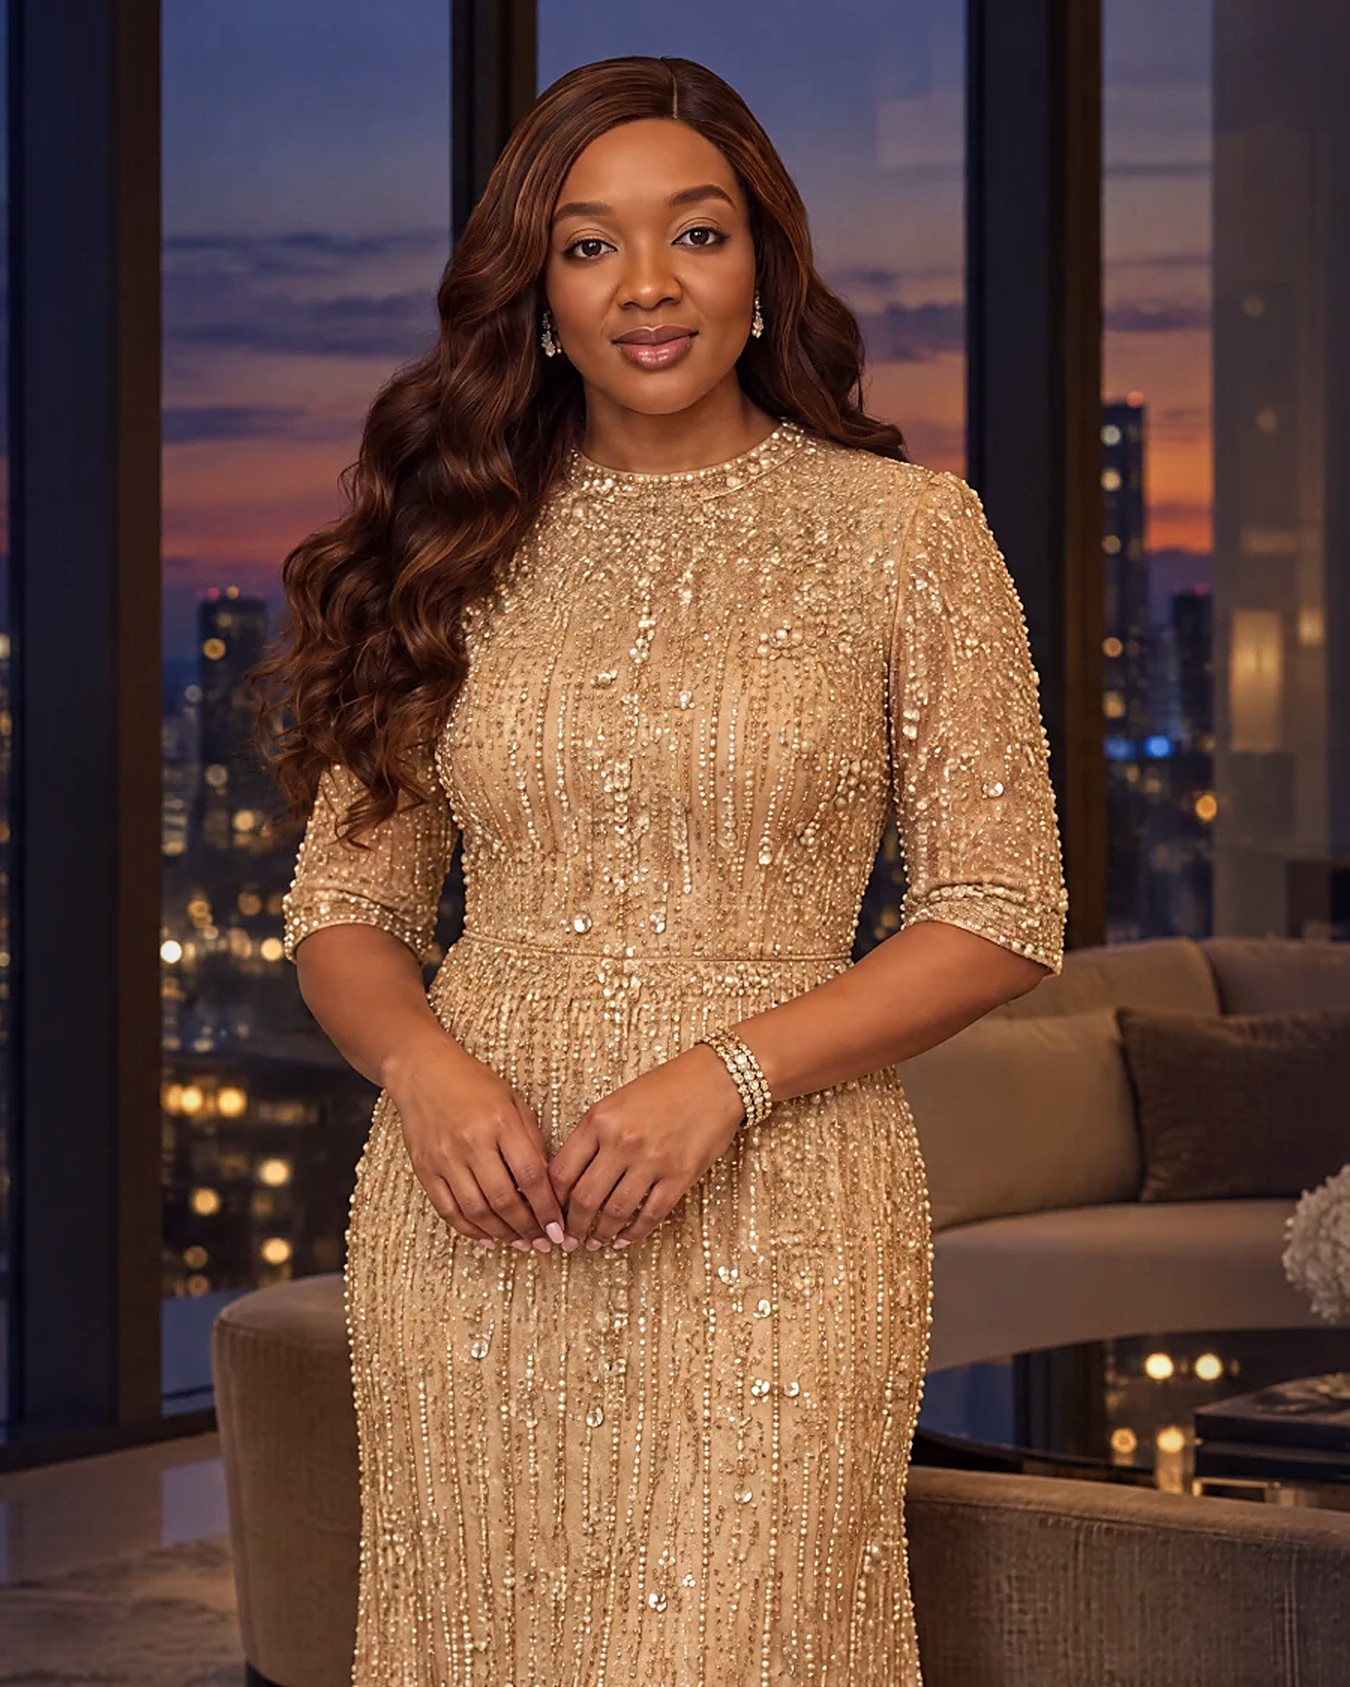
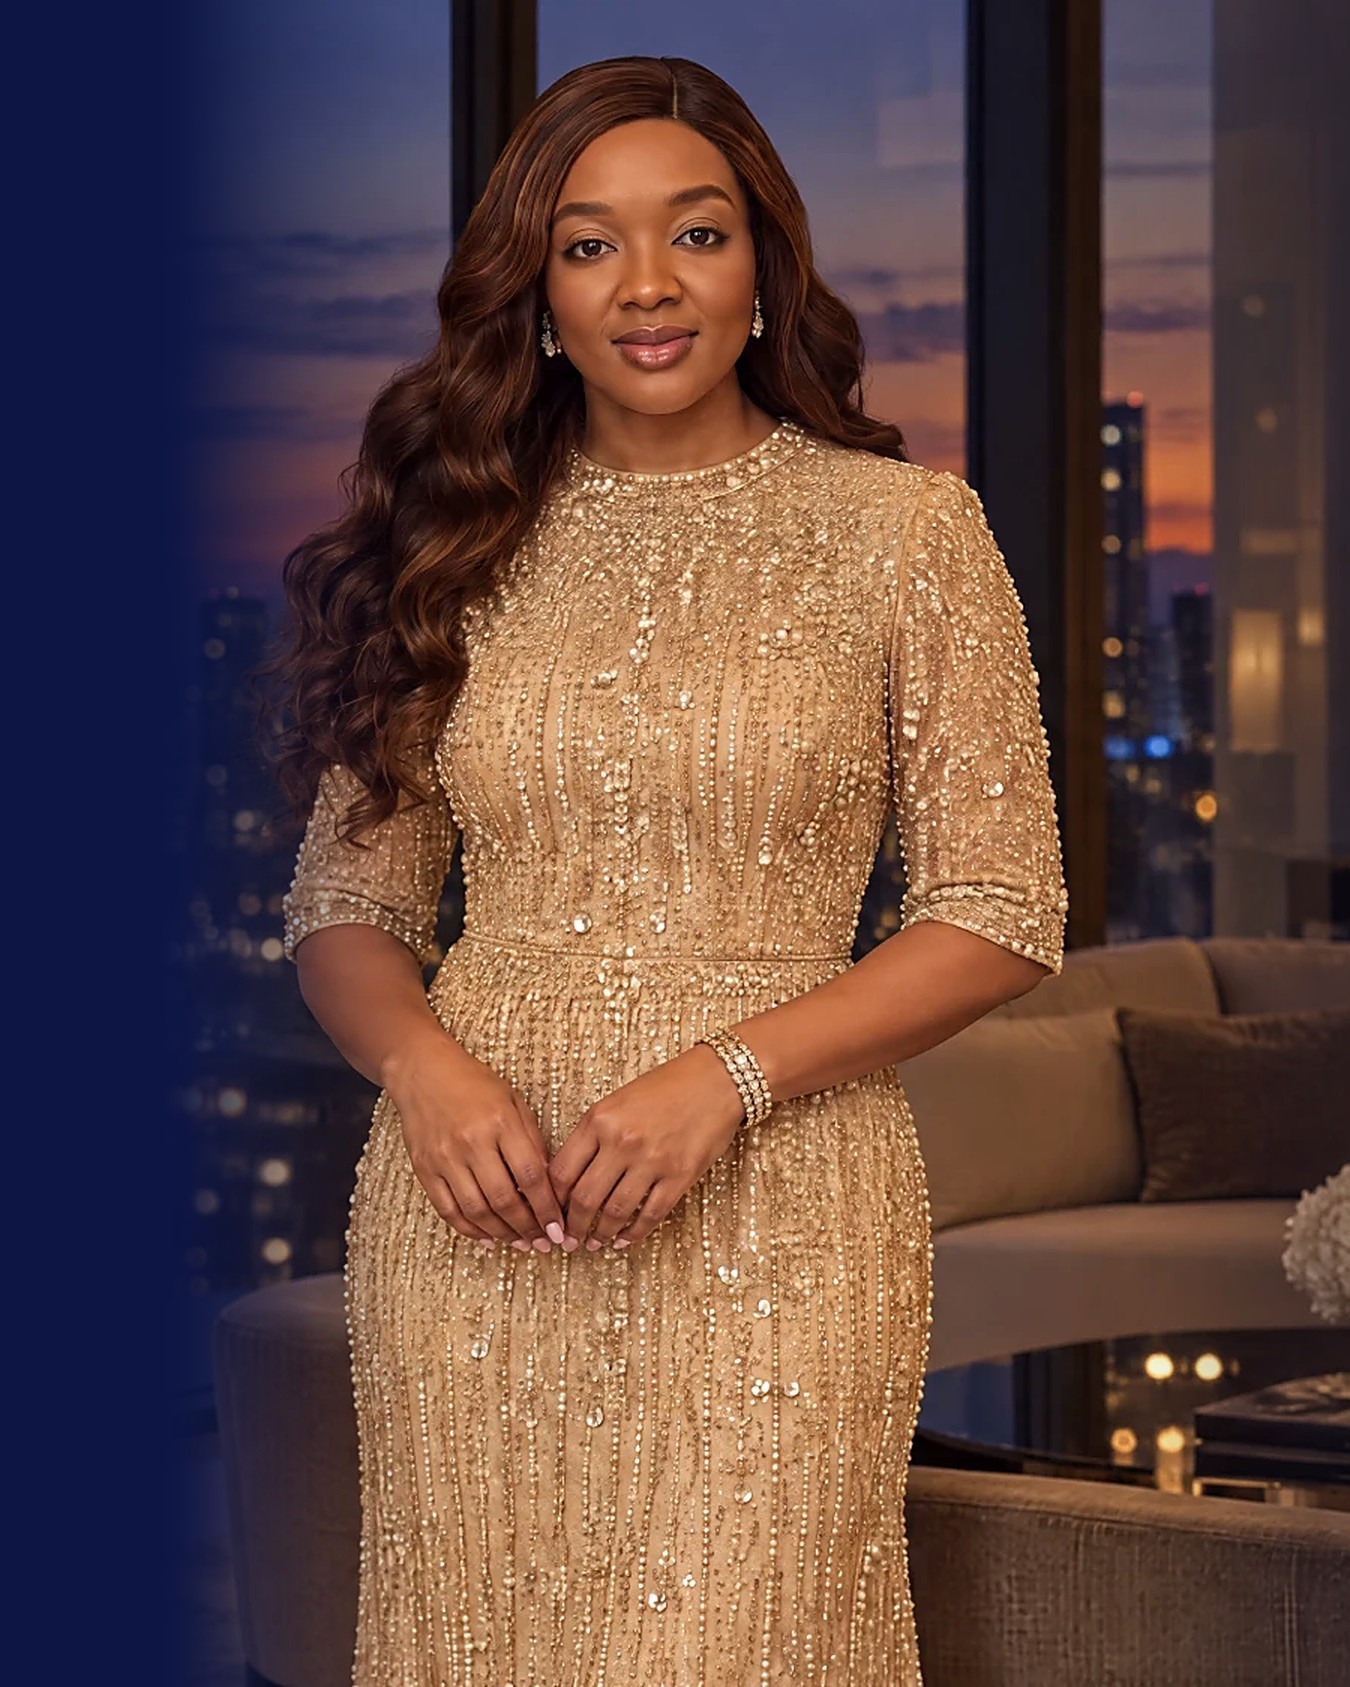
Phone hero: plain indigo on the left; page header photo anchored to the top so her head stays in frame

Changed region(s): [[0.0, 0.0, 0.28, 1.0]]

diff --git a/index.html b/index.html
@@ -22,7 +22,7 @@
 <link rel="preconnect" href="https://fonts.googleapis.com">
 <link rel="preconnect" href="https://fonts.gstatic.com" crossorigin>
 <link rel="stylesheet" href="https://fonts.googleapis.com/css2?family=Cormorant+Garamond:ital,wght@0,500;0,600;1,500&family=Karla:wght@400;600;700;800&family=Pinyon+Script&family=Playfair+Display:wght@800;900&display=swap">
-<link rel="stylesheet" href="css/site.css?v=46">
+<link rel="stylesheet" href="css/site.css?v=47">
 </head>
 <body>
 <a class="skiplink" href="#main">Skip to content</a>
@@ -49,7 +49,7 @@
 
 <main id="main">
 <section class="hero hero-wide" id="top" style="padding-block:0">
-  <picture class="hero-bg"><source media="(max-width:820px)" srcset="img/hero-tall.jpg?v=2"><img src="img/hero-wide.jpg?v=2" alt="Funkie Tee in a gold beaded gown beside a window over a city at dusk" width="2000" height="1125" fetchpriority="high"></picture>
+  <picture class="hero-bg"><source media="(max-width:820px)" srcset="img/hero-tall.jpg?v=3"><img src="img/hero-wide.jpg?v=2" alt="Funkie Tee in a gold beaded gown beside a window over a city at dusk" width="2000" height="1125" fetchpriority="high"></picture>
   <div class="hero-light" aria-hidden="true"><i class="gold"></i><i class="teal"></i></div>
   <div class="wrap">
     <div class="hero-copy">
@@ -239,6 +239,6 @@
   <div class="bar" id="p-bar" role="slider" aria-label="Preview progress" aria-valuemin="0" aria-valuemax="100" aria-valuenow="0" tabindex="0"><i id="p-fill"></i></div>
 </div>
 <audio id="audio" preload="none"></audio>
-<script src="js/site.js?v=46" defer></script>
+<script src="js/site.js?v=47" defer></script>
 </body>
 </html>

diff --git a/music.html b/music.html
@@ -22,7 +22,7 @@
 <link rel="preconnect" href="https://fonts.googleapis.com">
 <link rel="preconnect" href="https://fonts.gstatic.com" crossorigin>
 <link rel="stylesheet" href="https://fonts.googleapis.com/css2?family=Cormorant+Garamond:ital,wght@0,500;0,600;1,500&family=Karla:wght@400;600;700;800&family=Pinyon+Script&family=Playfair+Display:wght@800;900&display=swap">
-<link rel="stylesheet" href="css/site.css?v=46">
+<link rel="stylesheet" href="css/site.css?v=47">
 </head>
 <body>
 <a class="skiplink" href="#main">Skip to content</a>
@@ -267,6 +267,6 @@
   <div class="bar" id="p-bar" role="slider" aria-label="Preview progress" aria-valuemin="0" aria-valuemax="100" aria-valuenow="0" tabindex="0"><i id="p-fill"></i></div>
 </div>
 <audio id="audio" preload="none"></audio>
-<script src="js/site.js?v=46" defer></script>
+<script src="js/site.js?v=47" defer></script>
 </body>
 </html>

diff --git a/podcast.html b/podcast.html
@@ -22,7 +22,7 @@
 <link rel="preconnect" href="https://fonts.googleapis.com">
 <link rel="preconnect" href="https://fonts.gstatic.com" crossorigin>
 <link rel="stylesheet" href="https://fonts.googleapis.com/css2?family=Cormorant+Garamond:ital,wght@0,500;0,600;1,500&family=Karla:wght@400;600;700;800&family=Pinyon+Script&family=Playfair+Display:wght@800;900&display=swap">
-<link rel="stylesheet" href="css/site.css?v=46">
+<link rel="stylesheet" href="css/site.css?v=47">
 </head>
 <body>
 <a class="skiplink" href="#main">Skip to content</a>
@@ -98,6 +98,6 @@
   <div class="bar" id="p-bar" role="slider" aria-label="Preview progress" aria-valuemin="0" aria-valuemax="100" aria-valuenow="0" tabindex="0"><i id="p-fill"></i></div>
 </div>
 <audio id="audio" preload="none"></audio>
-<script src="js/site.js?v=46" defer></script>
+<script src="js/site.js?v=47" defer></script>
 </body>
 </html>

diff --git a/css/site.css b/css/site.css
@@ -663,3 +663,6 @@ section{padding-block:clamp(80px,11vw,140px)}
   .stereo.on .short{display:none}.stereo.on .full{display:inline}
   .stereo{margin-right:.8rem}
 }
+/* Page header photo: keep her head in frame */
+.pagehead::before{background-position:76% 0%}
+@media (max-width:820px){.pagehead::before{background-position:72% 0%}}

diff --git a/tools/build.py b/tools/build.py
@@ -11,7 +11,7 @@ IC = json.load(open('data/icons.json'))
 REL = {r['id']: r for r in cat['releases']}
 SONGS = cat['songs']
 e = html.escape
-V = "46"  # bump to refresh cached css/js
+V = "47"  # bump to refresh cached css/js
 
 SITE = 'https://www.funkieteemusic.com/'
 YT = 'https://www.youtube.com/@Funkieteemusic'
@@ -184,7 +184,7 @@ home = head('Funkie Tee | Contemporary Gospel Music',
             '', 'Funkie Tee | Contemporary Gospel Music') + header('home') + f'''
 <main id="main">
 <section class="hero hero-wide" id="top" style="padding-block:0">
-  <picture class="hero-bg"><source media="(max-width:820px)" srcset="img/hero-tall.jpg?v=2"><img src="img/hero-wide.jpg?v=2" alt="Funkie Tee in a gold beaded gown beside a window over a city at dusk" width="2000" height="1125" fetchpriority="high"></picture>
+  <picture class="hero-bg"><source media="(max-width:820px)" srcset="img/hero-tall.jpg?v=3"><img src="img/hero-wide.jpg?v=2" alt="Funkie Tee in a gold beaded gown beside a window over a city at dusk" width="2000" height="1125" fetchpriority="high"></picture>
   <div class="hero-light" aria-hidden="true"><i class="gold"></i><i class="teal"></i></div>
   <div class="wrap">
     <div class="hero-copy">
